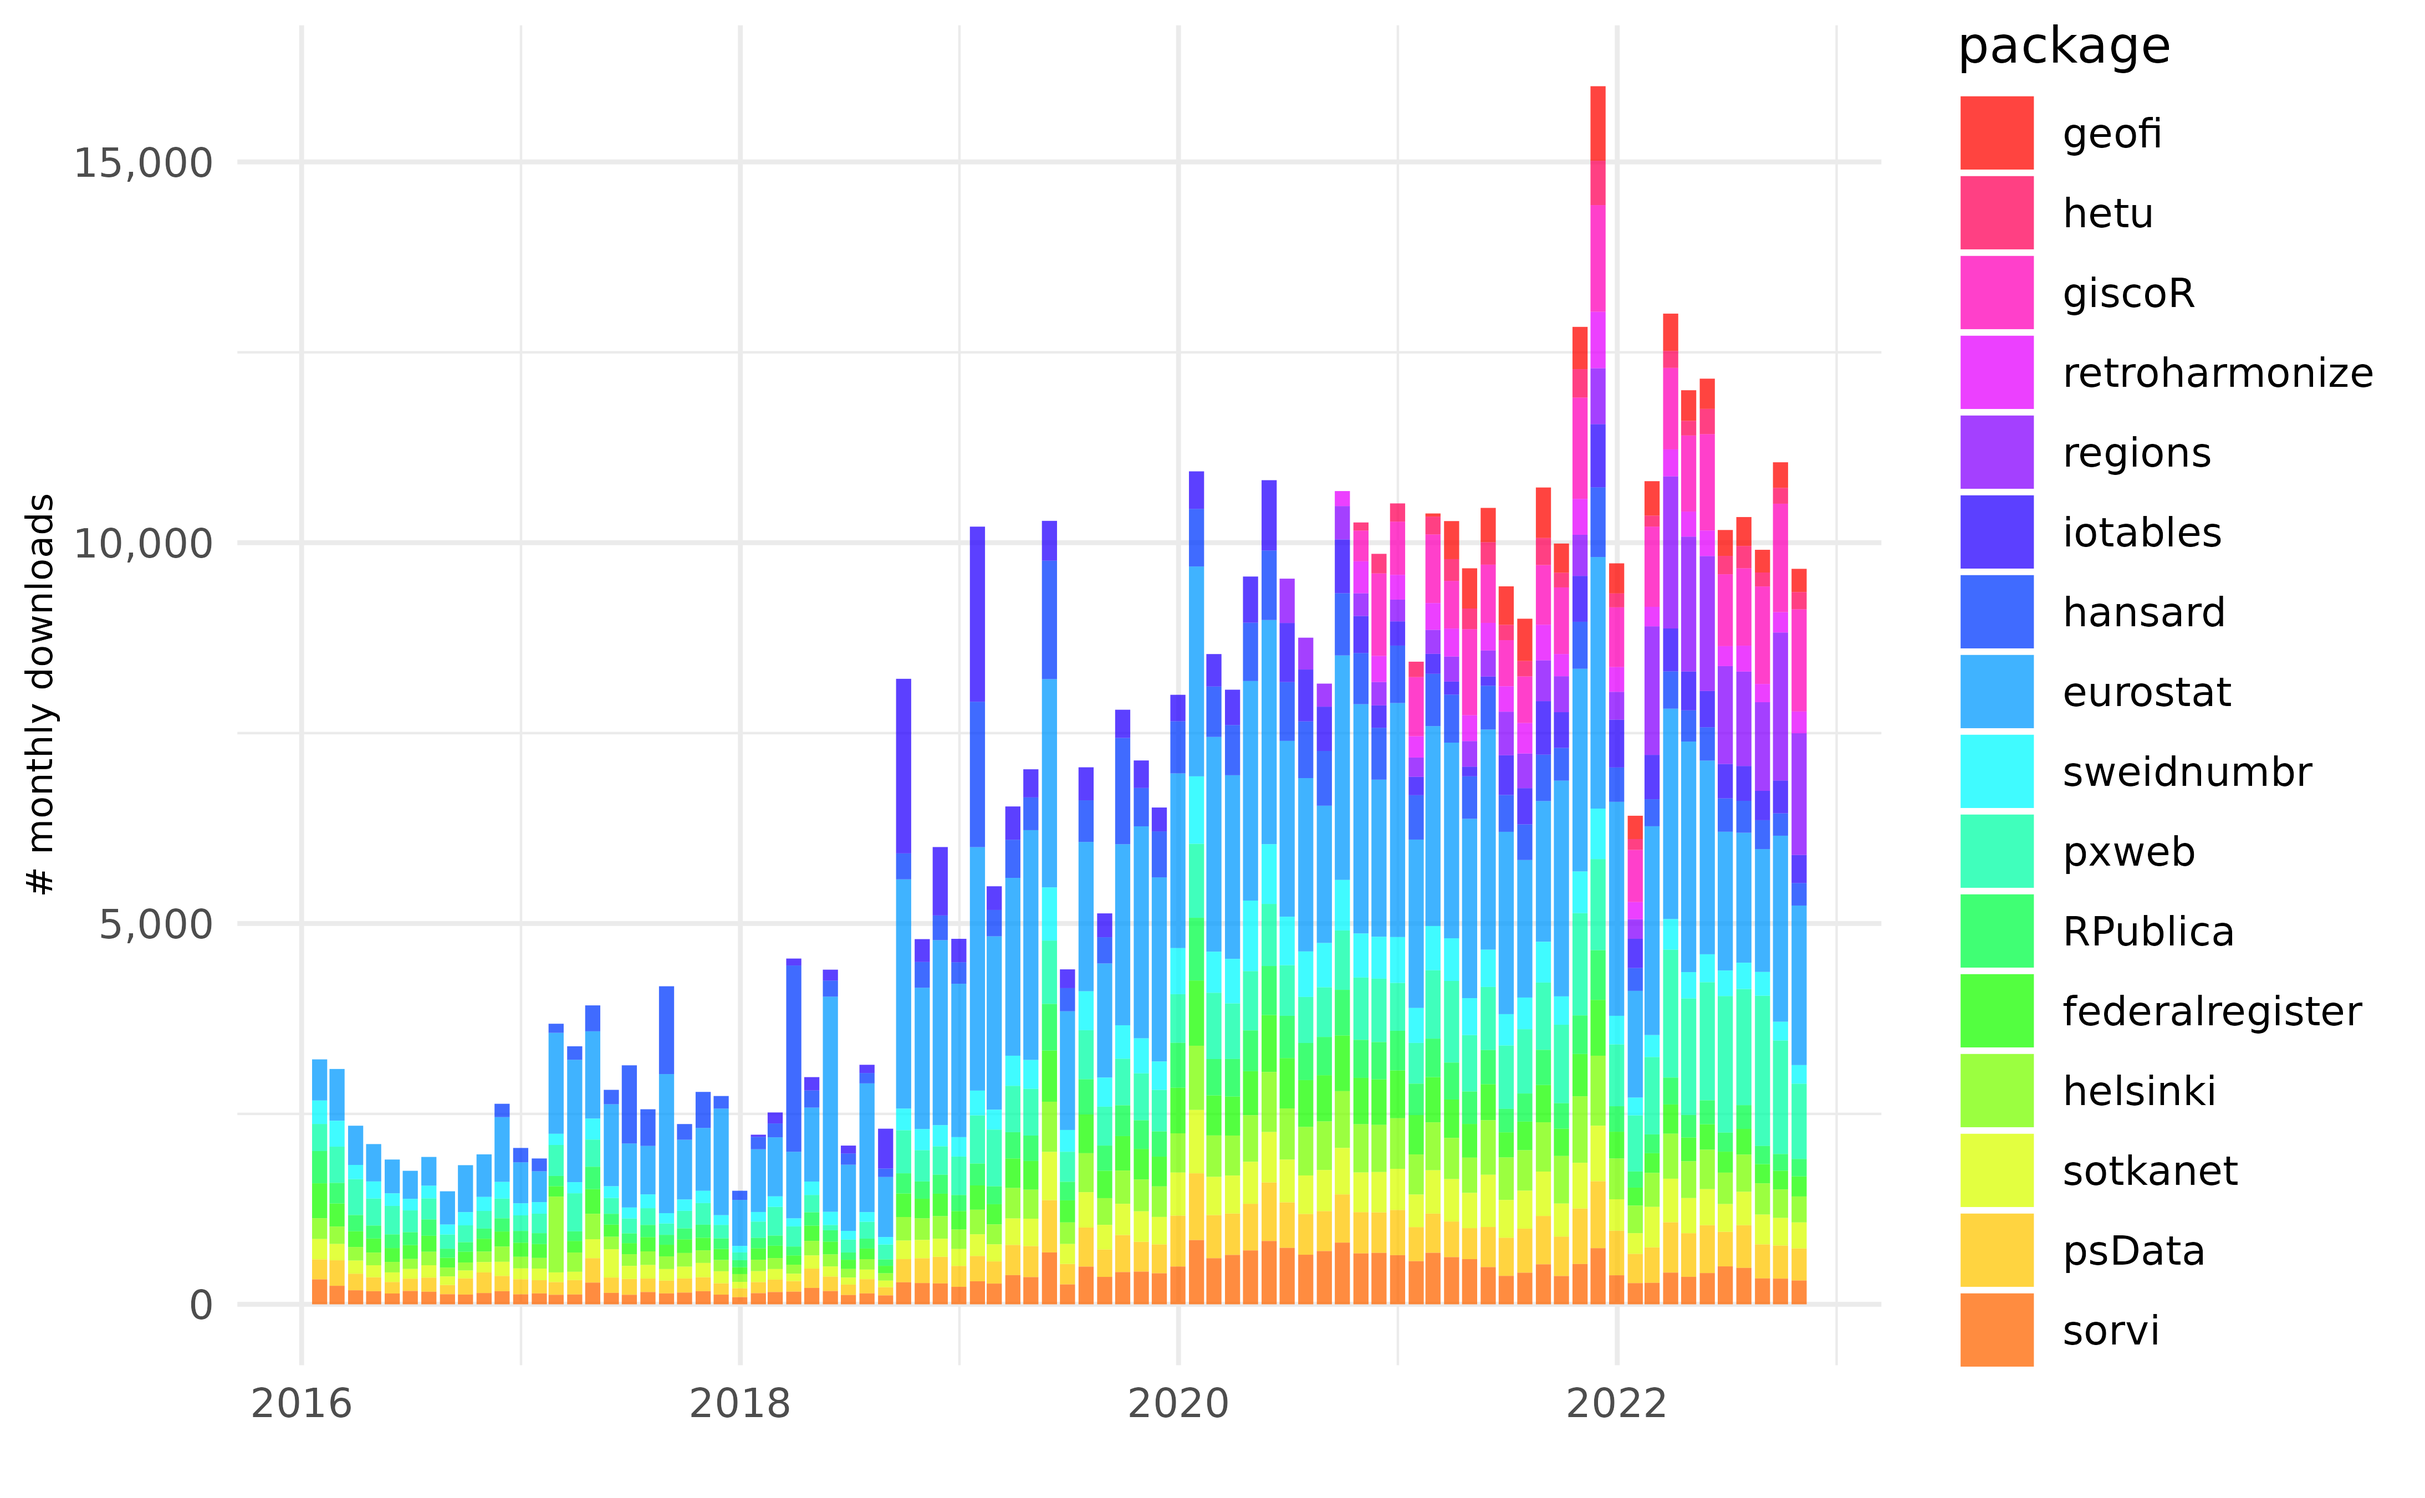
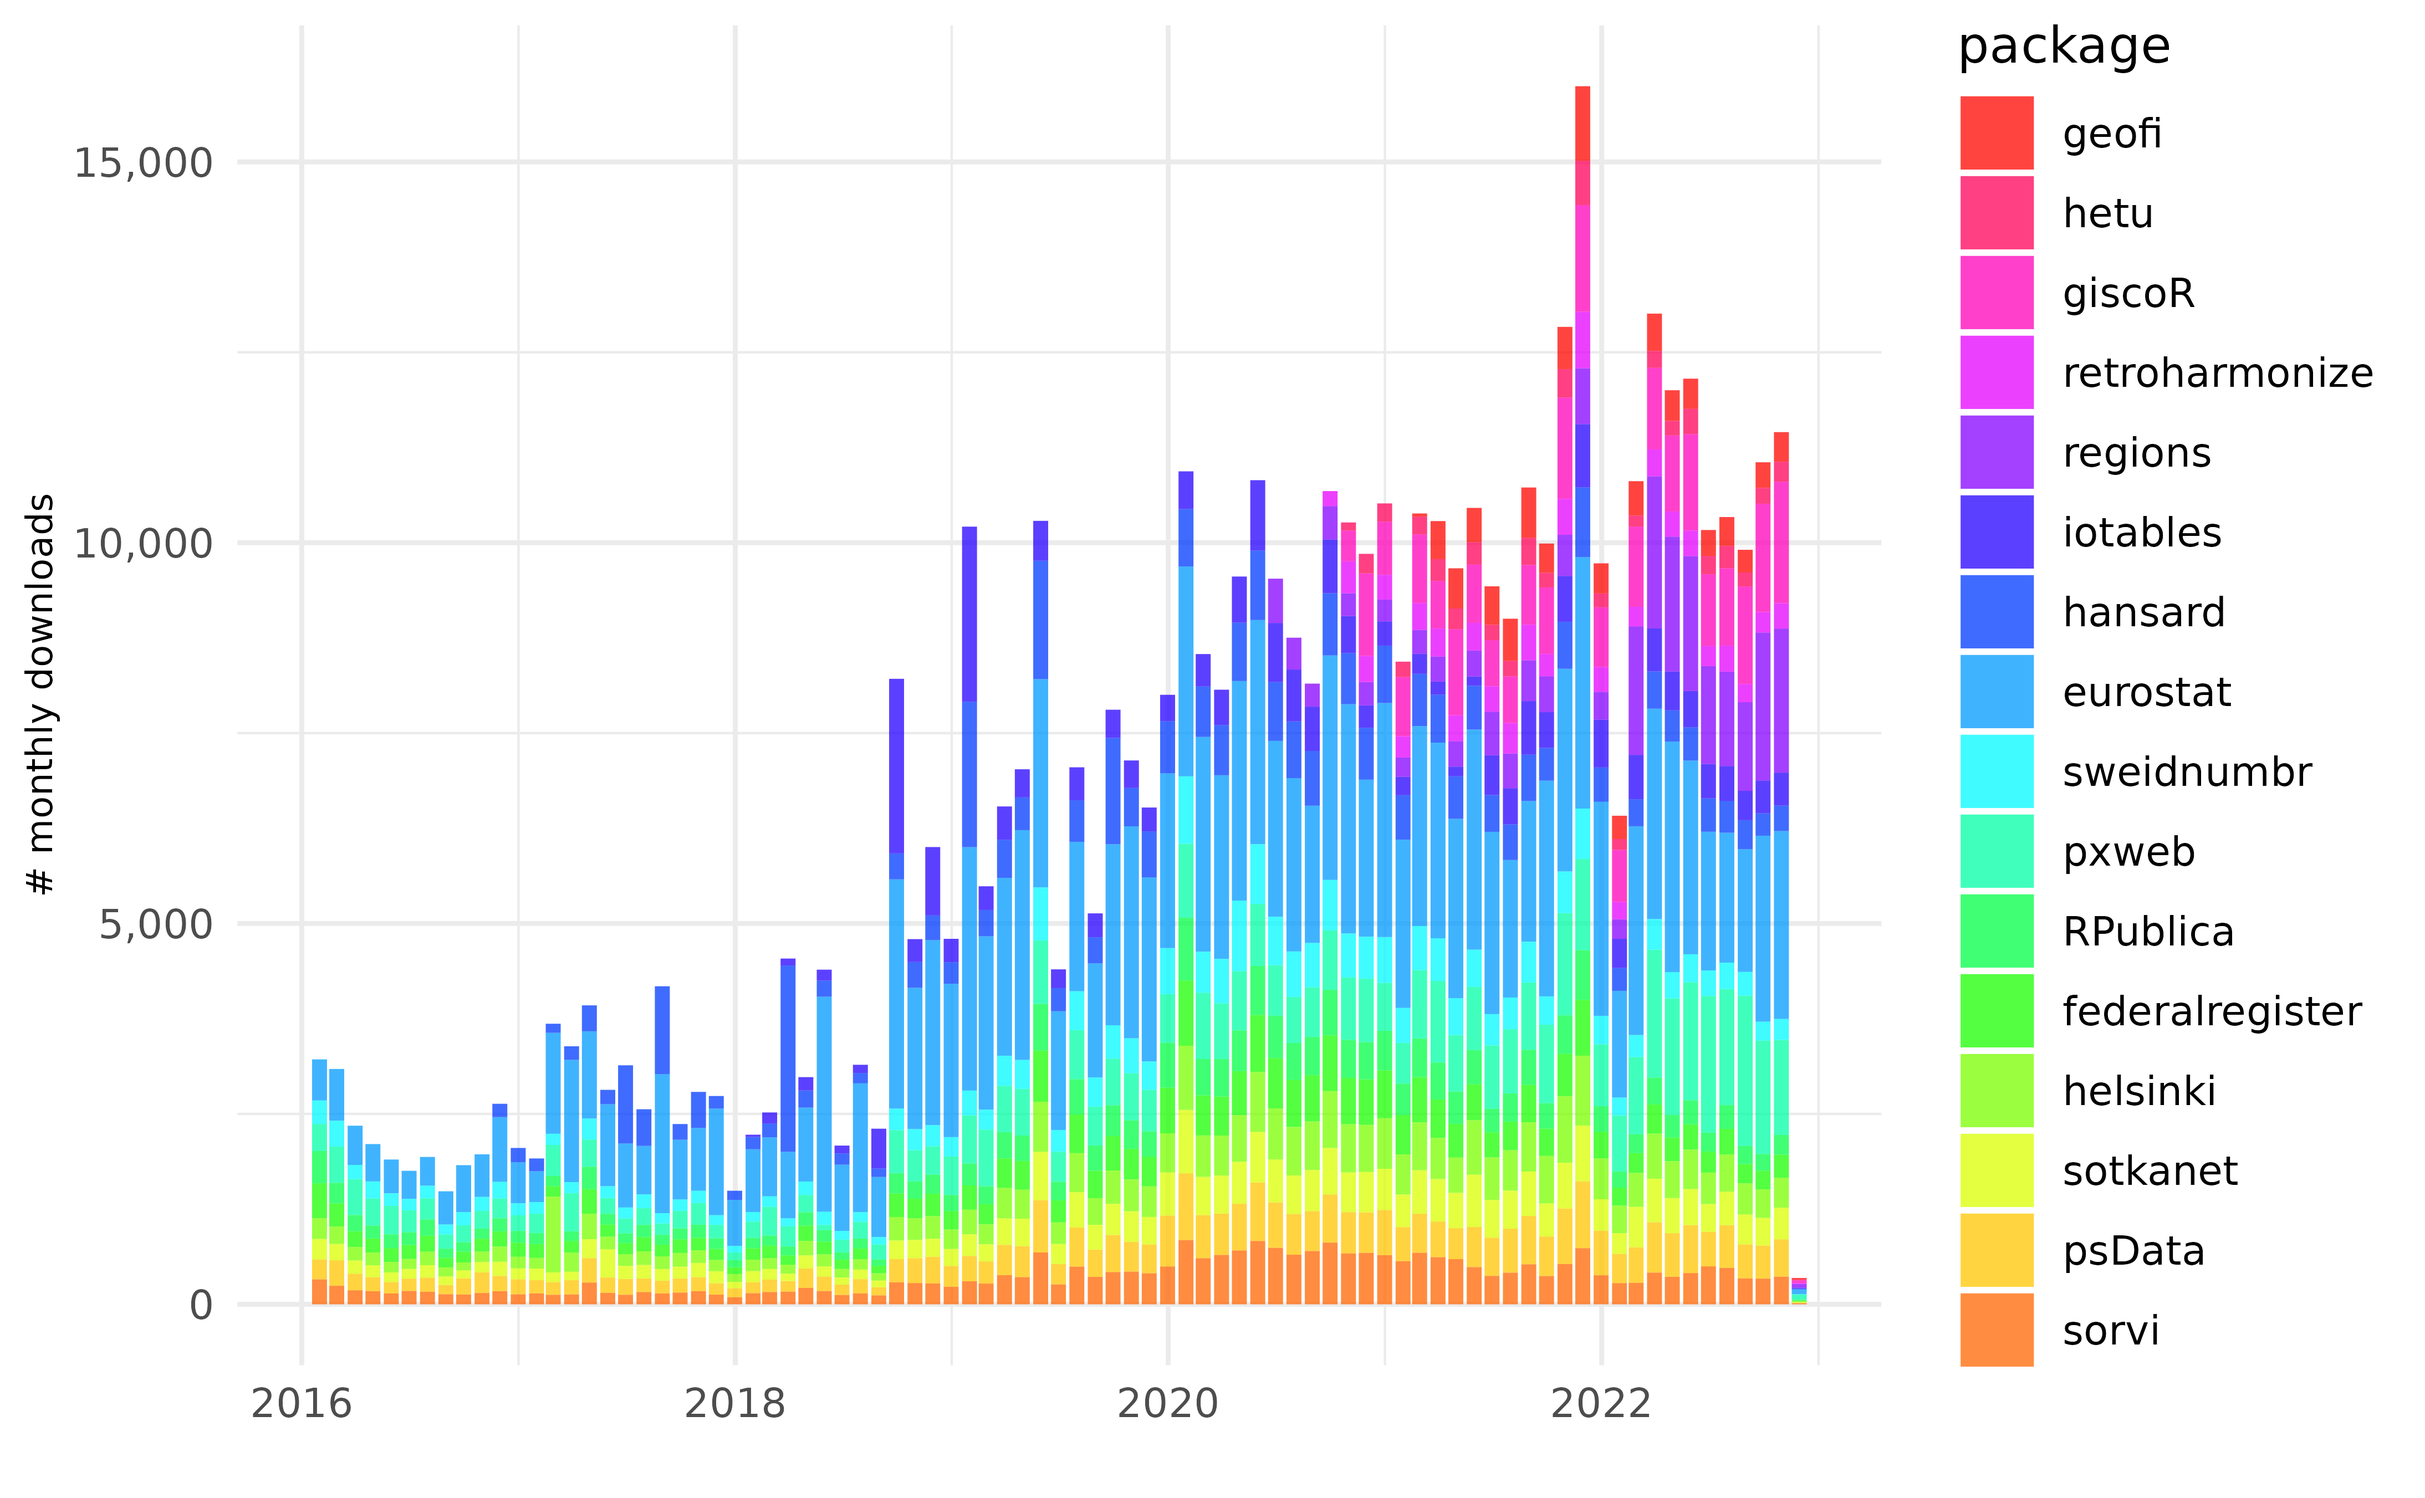
Built site for rogtemplate: 0.0.2.9000@bdcdba0

diff --git a/articles/downloads.html b/articles/downloads.html
@@ -93,7 +93,7 @@
 
     
     
-<p><em>Updated: 27 Oct 2022</em></p>
+<p><em>Updated: 03 Nov 2022</em></p>
 <p>Downloads of rOpenGov packages from CRAN.</p>
 <div class="section level2">
 <h2 id="downloads">Downloads<a class="anchor" aria-label="anchor" href="#downloads"></a>
@@ -109,7 +109,7 @@
 <h2 id="data">Data<a class="anchor" aria-label="anchor" href="#data"></a>
 </h2>
 <div id="station-table" class="reactable html-widget" style="width:auto;height:auto;"></div>
-<script type="application/json" data-for="station-table">{"x":{"tag":{"name":"Reactable","attribs":{"data":{"package":["geofi","hetu","giscoR","retroharmonize","regions","iotables","hansard","eurostat","sweidnumbr","pxweb","RPublica","federalregister","helsinki","sotkanet","psData","sorvi"],"on CRAN":["2021-02-20","2020-10-15","2020-10-05","2020-09-21","2020-06-04","2018-01-30","2016-10-31","2015-03-20","2014-09-05","2014-09-03","2014-05-09","2014-05-08","2014-04-13","2014-04-06","2014-02-23","2013-09-30"],"avg daily downloads":[15.3,8.5,32.1,11.7,25.9,16.5,18,60.3,11.7,21.5,10.3,11.5,13.2,11.5,12.9,12.1],"last day":[8,7,51,10,64,17,8,72,3,57,5,7,7,5,10,6],"last week":[81,54,283,70,291,95,67,378,51,310,41,49,81,78,95,67],"last month":[352,245,1561,314,1904,456,319,2495,267,1187,249,283,372,388,464,346],"last year":[5252,3063,13477,4091,15956,6229,5351,28715,4301,16560,3794,4147,6075,5499,6674,4974]},"columns":[{"accessor":"package","name":"package","type":"character"},{"accessor":"on CRAN","name":"on CRAN","type":"Date"},{"accessor":"avg daily downloads","name":"avg daily downloads","type":"numeric"},{"accessor":"last day","name":"last day","type":"numeric"},{"accessor":"last week","name":"last week","type":"numeric"},{"accessor":"last month","name":"last month","type":"numeric"},{"accessor":"last year","name":"last year","type":"numeric"}],"filterable":true,"searchable":true,"defaultPageSize":16,"showPageSizeOptions":true,"pageSizeOptions":[10,25,50,100],"paginationType":"jump","showPageInfo":true,"minRows":1,"striped":true,"elementId":"station-table","dataKey":"284f1c9ebfcaa8bbf03b1e406678d6a7"},"children":[]},"class":"reactR_markup"},"evals":[],"jsHooks":[]}</script>
+<script type="application/json" data-for="station-table">{"x":{"tag":{"name":"Reactable","attribs":{"data":{"package":["geofi","hetu","giscoR","retroharmonize","regions","iotables","hansard","eurostat","sweidnumbr","pxweb","RPublica","federalregister","helsinki","sotkanet","psData","sorvi"],"on CRAN":["2021-02-20","2020-10-15","2020-10-05","2020-09-21","2020-06-04","2018-01-30","2016-10-31","2015-03-20","2014-09-05","2014-09-03","2014-05-09","2014-05-08","2014-04-13","2014-04-06","2014-02-23","2013-09-30"],"avg daily downloads":[15.3,8.4,32.2,11.7,26.1,16.5,18,60.3,11.7,21.5,10.3,11.5,13.2,11.5,12.9,12.1],"last day":[21,10,38,12,48,12,11,62,5,67,10,11,11,9,6,13],"last week":[76,32,213,41,280,51,31,355,20,278,23,27,39,48,37,41],"last month":[395,261,1538,329,1866,417,313,2445,254,1278,250,292,381,394,454,357],"last year":[5101,2938,13480,3961,16103,6066,5173,28521,4145,16524,3638,3973,5868,5370,6500,4839]},"columns":[{"accessor":"package","name":"package","type":"character"},{"accessor":"on CRAN","name":"on CRAN","type":"Date"},{"accessor":"avg daily downloads","name":"avg daily downloads","type":"numeric"},{"accessor":"last day","name":"last day","type":"numeric"},{"accessor":"last week","name":"last week","type":"numeric"},{"accessor":"last month","name":"last month","type":"numeric"},{"accessor":"last year","name":"last year","type":"numeric"}],"filterable":true,"searchable":true,"defaultPageSize":16,"showPageSizeOptions":true,"pageSizeOptions":[10,25,50,100],"paginationType":"jump","showPageInfo":true,"minRows":1,"striped":true,"elementId":"station-table","dataKey":"f0ea02c165a97509b9b0173ce572d172"},"children":[]},"class":"reactR_markup"},"evals":[],"jsHooks":[]}</script>
 </div>
   </main><aside class="col-md-3"><nav id="toc"><h2>On this page</h2>
     </nav></aside>

diff --git a/reference/rog_logo.html b/reference/rog_logo.html
@@ -121,7 +121,7 @@ would run <code><a href="https://usethis.r-lib.org/reference/use_logo.html" clas
 <span class="r-in"><span><span class="va">tmp</span> <span class="op">&lt;-</span> <span class="fu"><a href="https://rdrr.io/r/base/tempfile.html" class="external-link">tempfile</a></span><span class="op">(</span>fileext <span class="op">=</span> <span class="st">".png"</span><span class="op">)</span></span></span>
 <span class="r-in"><span><span class="fu">rog_logo</span><span class="op">(</span><span class="st">"test a package"</span>, <span class="va">tmp</span>, overwrite <span class="op">=</span> <span class="cn">FALSE</span>, favicons <span class="op">=</span> <span class="cn">FALSE</span><span class="op">)</span></span></span>
 <span class="r-msg co"><span class="r-pr">#&gt;</span> B612 Mono font loaded</span>
-<span class="r-msg co"><span class="r-pr">#&gt;</span> Logo created on /tmp/RtmphIg4xV/file373661723876.png</span>
+<span class="r-msg co"><span class="r-pr">#&gt;</span> Logo created on /tmp/Rtmp4NNdP4/file3b0a7a89e725.png</span>
 <span class="r-in"><span></span></span>
 <span class="r-in"><span><span class="co"># Display</span></span></span>
 <span class="r-in"><span><span class="va">logo</span> <span class="op">&lt;-</span> <span class="fu">magick</span><span class="fu">::</span><span class="fu"><a href="https://docs.ropensci.org/magick/reference/editing.html" class="external-link">image_read</a></span><span class="op">(</span><span class="va">tmp</span><span class="op">)</span></span></span>
